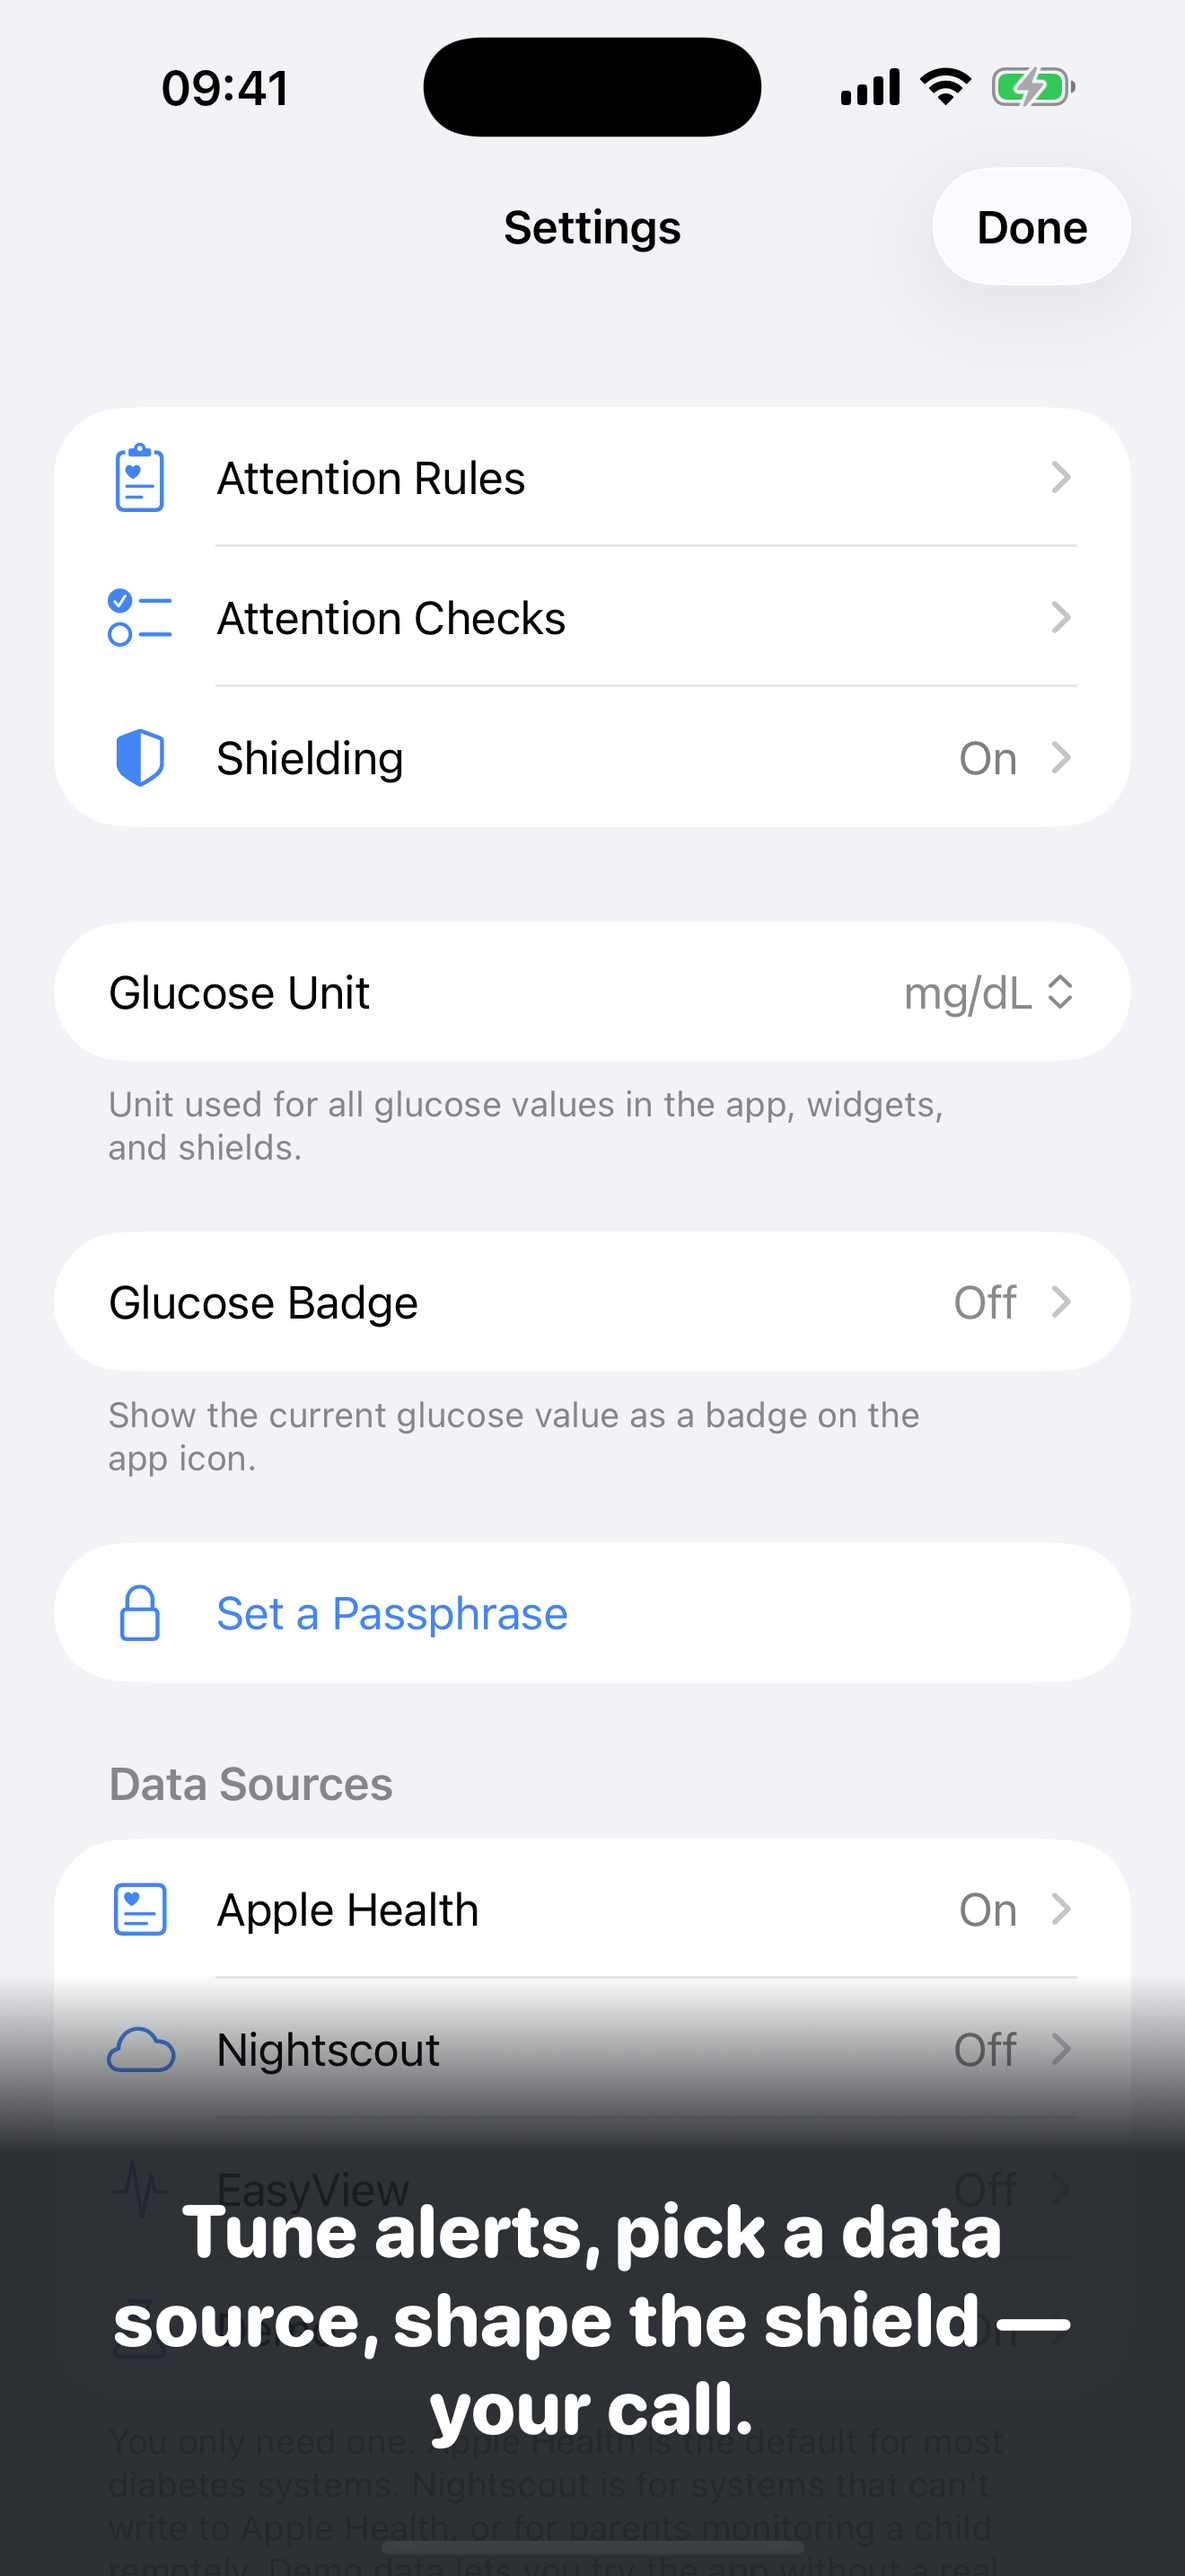
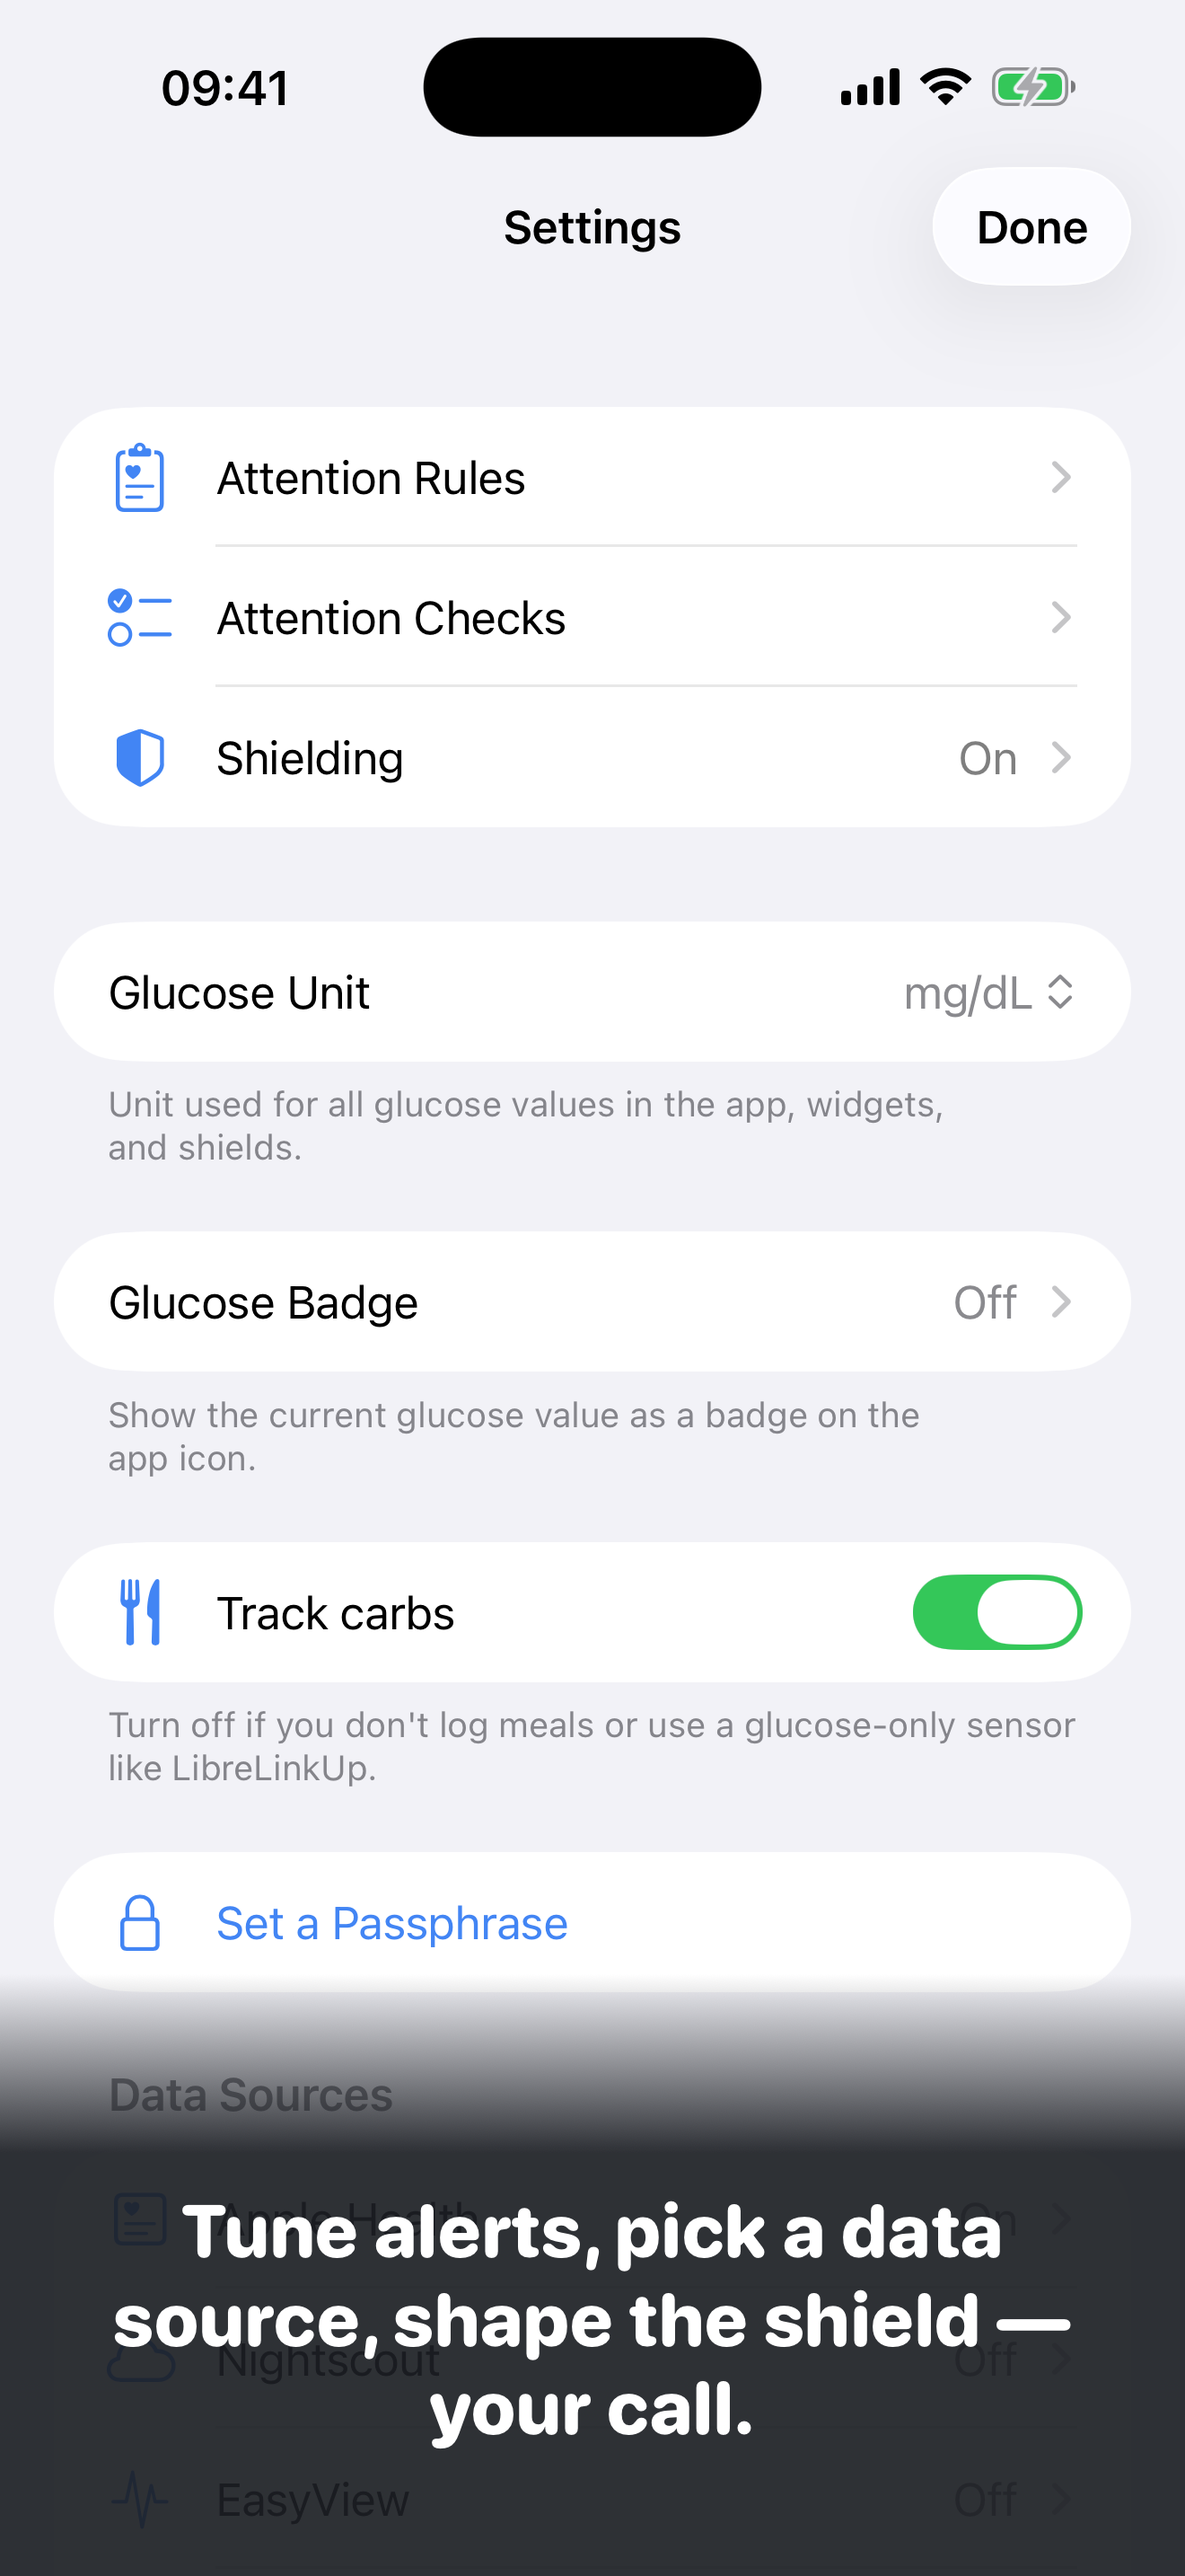
fix(widgets): fix ViewBuilder early-return and Date? errors in WidgetTileViews
AccessoryCircularTile and AccessoryInlineTile used bare return after a
view expression inside a @ViewBuilder body, which Swift rejects.
Converted to if/else branches.

AccessoryRectangularTile passed glucoseDate (Date?) directly to
Text(_:style:) which requires a non-optional Date; guarded with ?? Date().

Also captures updated 05_settings screenshot showing the Track carbs
toggle for en-US and nl-NL.

diff --git a/iOS/SharedKit/Sources/SharedKit/WidgetTileViews.swift b/iOS/SharedKit/Sources/SharedKit/WidgetTileViews.swift
@@ -364,7 +364,7 @@ public struct AccessoryCircularTile: View {
     public var body: some View {
         let c = content.shieldContent
         // Carbs-only widget with carb tracking disabled: show a clear
-        // "N/A" + "carbs" placeholder so the complication slot doesn't
+        // "off" + "carbs" placeholder so the complication slot doesn't
         // look broken. The attention level stays `.clear` (no tint).
         if !forGlucose && !c.carbsEnabled {
             VStack(spacing: -2) {
@@ -376,25 +376,25 @@ public struct AccessoryCircularTile: View {
                     .font(.system(.caption, design: .rounded))
             }
             .multilineTextAlignment(.center)
-            return
+        } else {
+            // For a meal-only carb entry (grams == nil, but a reading exists)
+            // the label is not glanceable in the tight circular frame — show
+            // how long ago the meal was recorded instead, split across the
+            // two-line value/unit layout the tile uses for glucose.
+            let isCarbMealOnly = !forGlucose && c.carbs != nil && c.carbs?.grams == nil
+            let (agoValue, agoUnit) = isCarbMealOnly
+                ? widgetCarbsMealAgoComponents(from: content.carbDate, relativeTo: content.referenceDate)
+                : ("", "")
+            VStack(spacing: -2) {
+                Text(isCarbMealOnly ? agoValue : (forGlucose ? widgetGlucoseValue(c) : widgetCarbsValue(c)))
+                    .font(.system(.title2, design: .rounded).bold())
+                    .minimumScaleFactor(0.6)
+                    .lineLimit(1)
+                Text(isCarbMealOnly ? agoUnit : (forGlucose ? c.glucoseUnit.shortLabel : widgetCarbsUnit(c)))
+                    .font(.system(.caption, design: .rounded))
+            }
+            .multilineTextAlignment(.center)
         }
-        // For a meal-only carb entry (grams == nil, but a reading exists)
-        // the label is not glanceable in the tight circular frame — show
-        // how long ago the meal was recorded instead, split across the
-        // two-line value/unit layout the tile uses for glucose.
-        let isCarbMealOnly = !forGlucose && c.carbs != nil && c.carbs?.grams == nil
-        let (agoValue, agoUnit) = isCarbMealOnly
-            ? widgetCarbsMealAgoComponents(from: content.carbDate, relativeTo: content.referenceDate)
-            : ("", "")
-        VStack(spacing: -2) {
-            Text(isCarbMealOnly ? agoValue : (forGlucose ? widgetGlucoseValue(c) : widgetCarbsValue(c)))
-                .font(.system(.title2, design: .rounded).bold())
-                .minimumScaleFactor(0.6)
-                .lineLimit(1)
-            Text(isCarbMealOnly ? agoUnit : (forGlucose ? c.glucoseUnit.shortLabel : widgetCarbsUnit(c)))
-                .font(.system(.caption, design: .rounded))
-        }
-        .multilineTextAlignment(.center)
     }
 }
 
@@ -431,7 +431,7 @@ public struct AccessoryRectangularTile: View {
                     .lineLimit(1)
                 if !c.carbsEnabled {
                     Spacer(minLength: 0)
-                    Text(content.glucoseDate, style: .time)
+                    Text(content.glucoseDate ?? Date(), style: .time)
                         .font(.caption2)
                         .foregroundStyle(.secondary)
                         .lineLimit(1)
@@ -481,8 +481,7 @@ public struct AccessoryInlineTile: View {
                 String(localized: "widget.carbsDisabled", bundle: .module),
                 systemImage: "fork.knife"
             )
-            return
-        }
+        } else {
         let needsAttention = forGlucose ? c.glucoseNeedsAttention : c.carbsNeedsAttention
         let icon = needsAttention ? "exclamationmark.triangle" : "checkmark.circle"
         // Inline is space-constrained on the Lock Screen so we drop the
@@ -492,6 +491,7 @@ public struct AccessoryInlineTile: View {
         // the age ("5 min", "2 h") — the label is not glanceable here.
         let text: String = widgetInlineCarbsText(c, content: content, forGlucose: forGlucose)
         Label(text, systemImage: icon)
+        }
     }
 }
 
